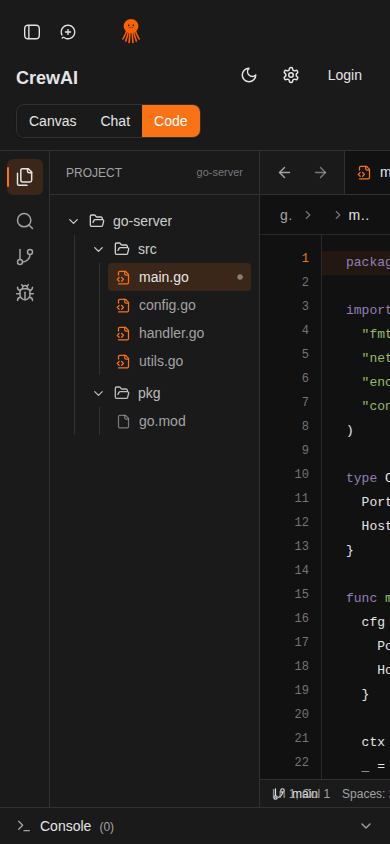
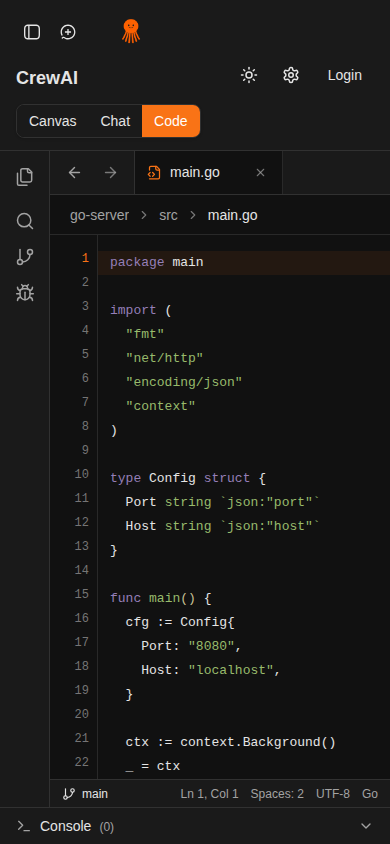
Tighten code view line number gutter

diff --git a/frontend/web/src/app/components/CodeViewer.tsx b/frontend/web/src/app/components/CodeViewer.tsx
@@ -37,6 +37,9 @@ interface EditorFile {
 
 const LINE_HEIGHT = 24;
 const EDITOR_PADDING_TOP = 16;
+const EDITOR_GUTTER_WIDTH = 48;
+const EDITOR_GUTTER_PADDING_X = 8;
+const EDITOR_CONTENT_PADDING_X = 12;
 
 const CODE_VIEW_THEME = {
   '--code-bg': 'var(--background)',
@@ -525,11 +528,15 @@ export function CodeViewer() {
 
         {activeFile ? (
           <div className="flex-1 min-h-0 flex overflow-hidden bg-[var(--code-bg)] font-mono text-[13px]">
-            <div className="w-[62px] shrink-0 border-r border-[var(--code-border-soft)] bg-[var(--code-bg)] text-right text-[var(--code-text-faint)] overflow-hidden select-none">
+            <div
+              className="shrink-0 border-r border-[var(--code-border-soft)] bg-[var(--code-bg)] text-right text-[var(--code-text-faint)] overflow-hidden select-none"
+              style={{ width: EDITOR_GUTTER_WIDTH }}
+            >
               <div
-                className="px-3"
                 style={{
                   paddingTop: EDITOR_PADDING_TOP,
+                  paddingLeft: EDITOR_GUTTER_PADDING_X,
+                  paddingRight: EDITOR_GUTTER_PADDING_X,
                   transform: `translateY(${-editorScroll.top}px)`,
                   lineHeight: `${LINE_HEIGHT}px`,
                 }}
@@ -558,9 +565,11 @@ export function CodeViewer() {
                 aria-hidden="true"
               >
                 <code
-                  className="block px-6"
+                  className="block"
                   style={{
                     paddingTop: EDITOR_PADDING_TOP,
+                    paddingLeft: EDITOR_CONTENT_PADDING_X,
+                    paddingRight: EDITOR_CONTENT_PADDING_X,
                     tabSize: 2,
                     lineHeight: `${LINE_HEIGHT}px`,
                     transform: `translate(${-editorScroll.left}px, ${-editorScroll.top}px)`,
@@ -593,9 +602,11 @@ export function CodeViewer() {
                   setEditorScroll({ top: target.scrollTop, left: target.scrollLeft });
                 }}
                 spellCheck={false}
-                className="absolute inset-0 z-20 w-full h-full resize-none border-0 outline-none bg-transparent text-transparent caret-[var(--code-text)] px-6 selection:bg-[var(--code-selection)] selection:text-transparent overflow-auto whitespace-pre"
+                className="absolute inset-0 z-20 w-full h-full resize-none border-0 outline-none bg-transparent text-transparent caret-[var(--code-text)] selection:bg-[var(--code-selection)] selection:text-transparent overflow-auto whitespace-pre"
                 style={{
                   paddingTop: EDITOR_PADDING_TOP,
+                  paddingLeft: EDITOR_CONTENT_PADDING_X,
+                  paddingRight: EDITOR_CONTENT_PADDING_X,
                   tabSize: 2,
                   lineHeight: `${LINE_HEIGHT}px`,
                   fontFamily:
